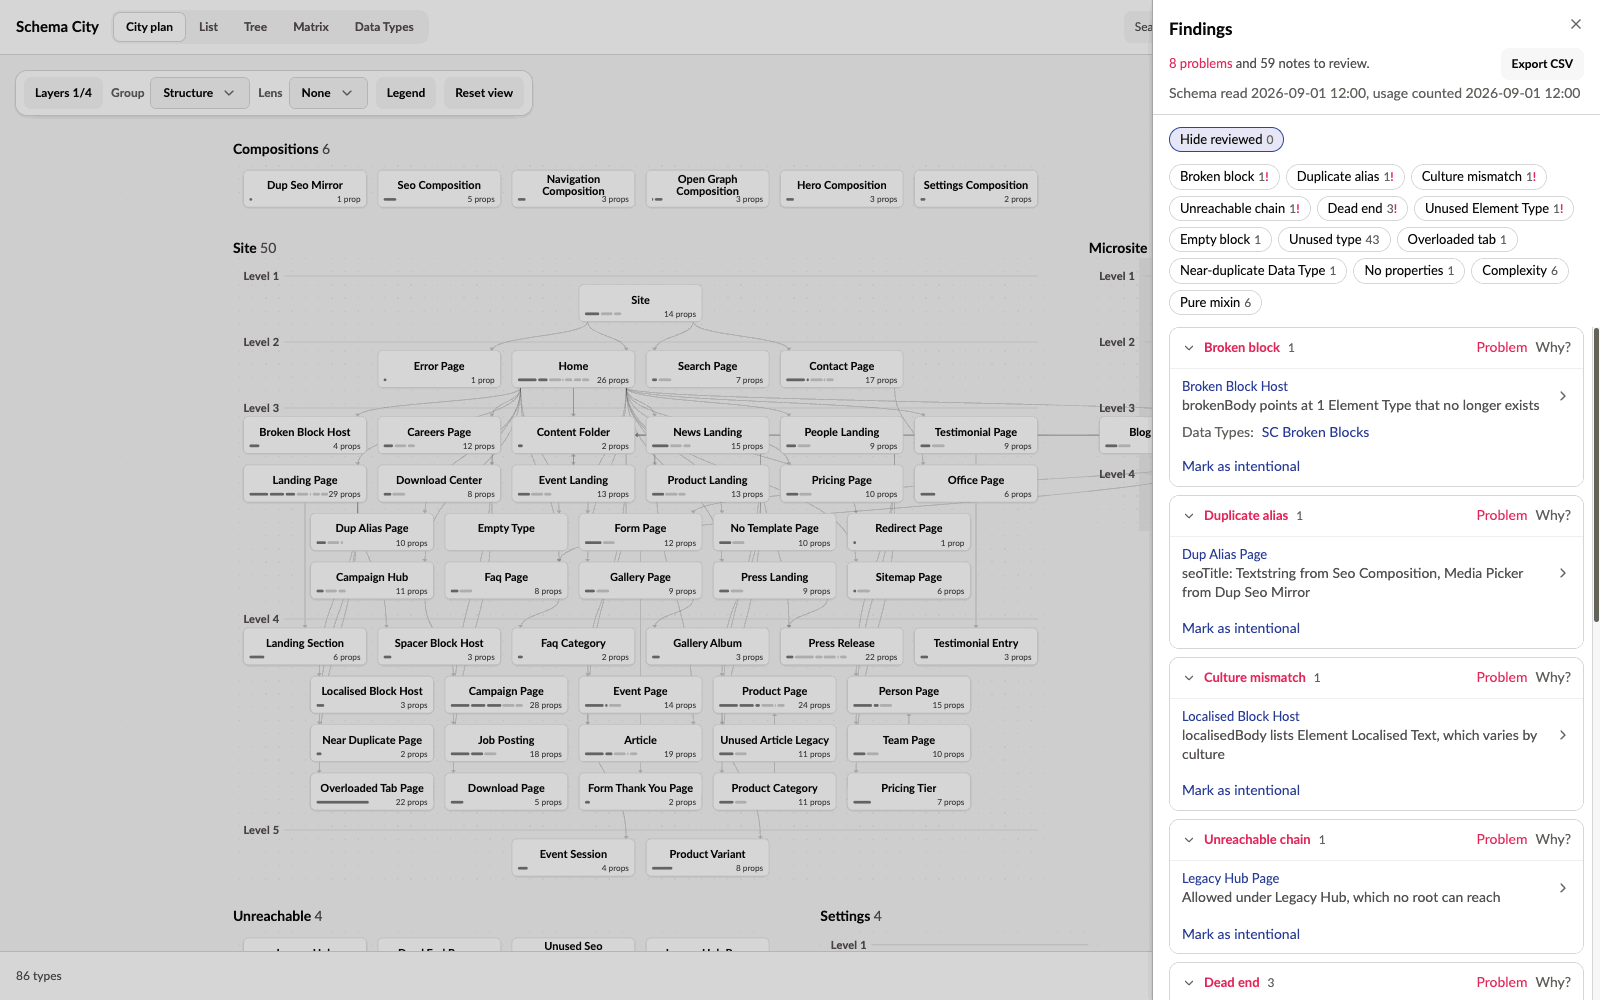
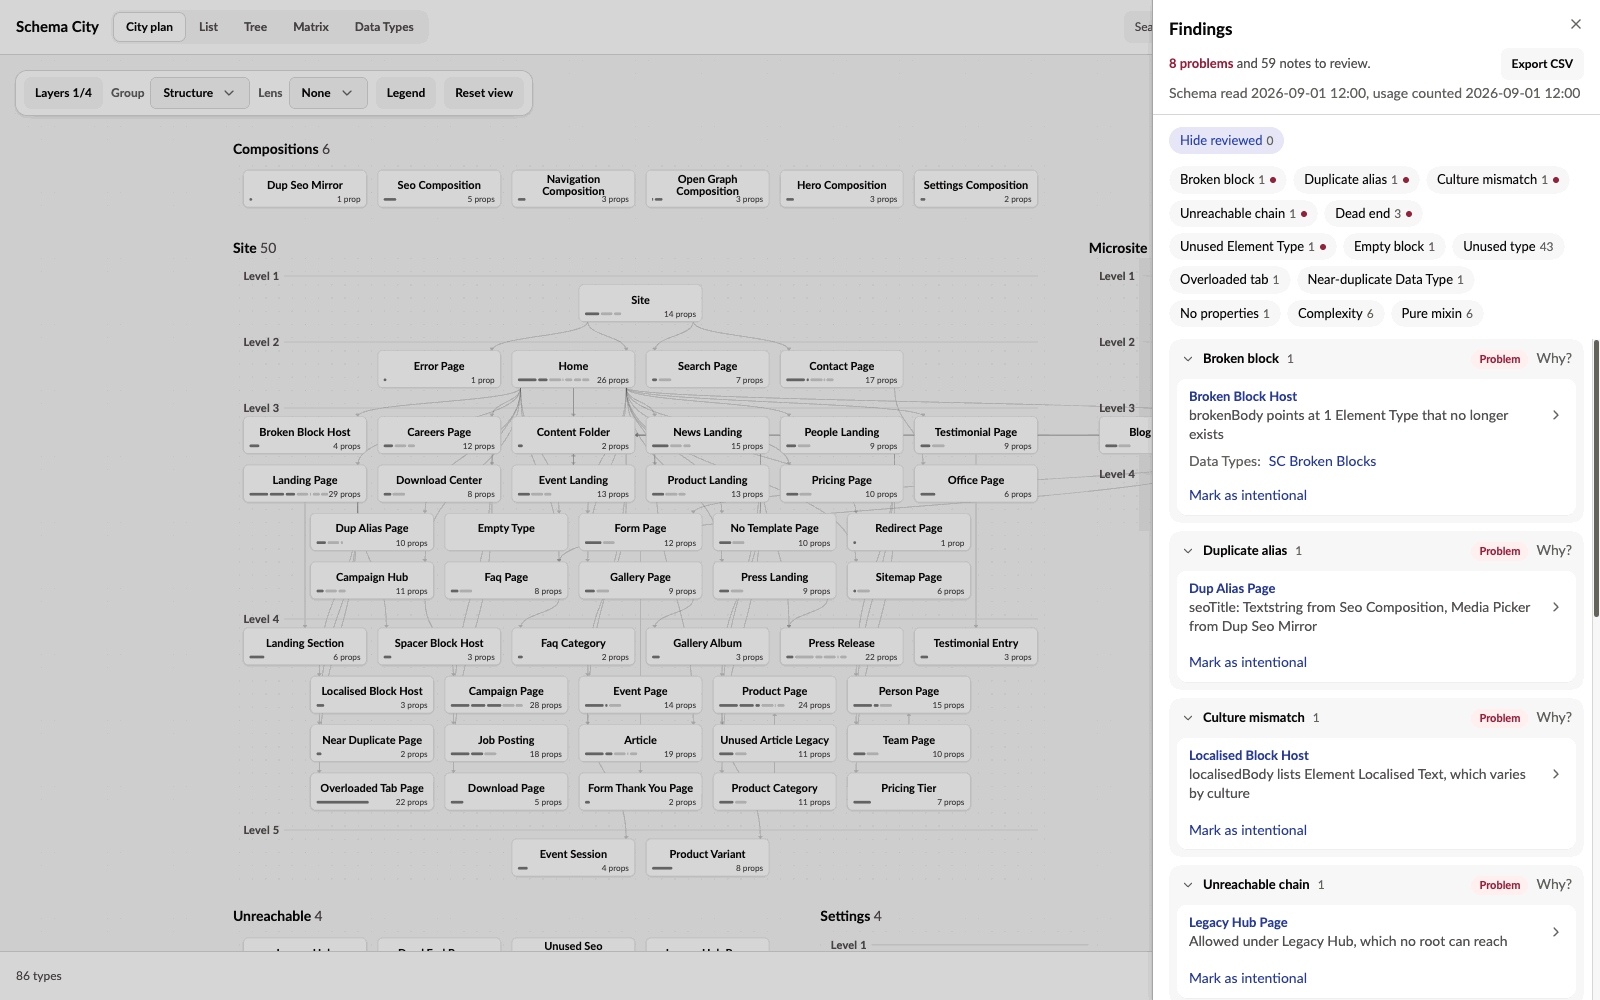
Calm the Findings drawer and give it structure
The pink went on every problem heading, its severity word, each kind's
count and the problem total, so the drawer shouted. Problem text now takes
a deeper ink of the danger colour, used once per group as a small Problem
pill; notes get a grey one. Kind titles are in the text colour.

Each kind is a soft surface holding its findings as one white list, and the
type a finding is about anchors its row. Filter chips are soft keys like the
rest, and a kind with problems shows a small dot beside its count rather
than a red "!".

Screenshots retaken.

diff --git a/src/SchemaCity/Client/clean/src/styles.css b/src/SchemaCity/Client/clean/src/styles.css
@@ -92,6 +92,9 @@
   --violet: color-mix(in oklab, #8d6be0 75%, var(--text-mix));
   --signal: var(--uui-color-danger, #df2a5d);
   --signal-soft: color-mix(in oklab, var(--signal) 80%, var(--panel));
+  /* Problem text: the danger colour pulled toward the text colour, deeper and
+     quieter than the raw pink, which shouted from every heading it coloured. */
+  --signal-ink: color-mix(in oklab, var(--signal) 68%, var(--text-mix));
   /* The one colour for things to click: Umbraco's interactive blue, with a little of
      the text colour so it holds its contrast on a dark surface too. Half and half
      made it near-black on white, and links read as text. */
@@ -867,24 +870,84 @@ button:is([data-variant="outline"], [data-variant="default"]):is(
 }
 
 [data-ui="filter"] {
-  padding: 0.1875rem 0.625rem;
+  padding: 0.25rem 0.625rem;
   font-size: 0.8125rem;
-  background: var(--panel);
-  border: 1px solid var(--line);
+  font-weight: 500;
+  background: var(--panel-sunken);
+  border: 1px solid transparent;
   border-radius: 999px;
 }
 
-[data-ui="filter"][aria-pressed="true"] {
+[data-ui="filter"]:hover {
   color: var(--foreground);
-  background: var(--accent);
-  border-color: var(--accent-foreground);
+  background: color-mix(in oklab, var(--foreground) 8%, var(--panel-sunken));
+  border-color: transparent;
 }
 
+[data-ui="filter"][aria-pressed="true"] {
+  color: var(--accent-foreground);
+  background: var(--accent);
+  border-color: transparent;
+}
+
+/* A problem among a kind's counts is a small dot, not a red "!". */
+[data-ui="problem-mark"] {
+  display: inline-block;
+  width: 0.375rem;
+  height: 0.375rem;
+  margin-left: 0.3125rem;
+  font-size: 0;
+  vertical-align: middle;
+  background: var(--signal-ink);
+  border-radius: 50%;
+  translate: 0 -0.0625rem;
+}
+
+[data-ui="problem-count"] {
+  font-weight: 600;
+  color: var(--signal-ink);
+}
+
+/* Each kind is a soft surface: its title in the text colour, its severity as a
+   small pill, and its findings as one white list inside it. A problem's pill is
+   the only red in the group. */
 [data-ui="finding-group"] {
   overflow: hidden;
+  background: var(--panel-sunken);
+  border: 0;
+  border-radius: 12px;
+}
+
+[data-ui="finding-title"] {
+  font-weight: 700;
+  color: var(--foreground);
+}
+
+[data-ui="severity"] {
+  padding: 0.125rem 0.5rem;
+  font-size: 0.6875rem;
+  font-weight: 600;
+  color: var(--label);
+  background: color-mix(in oklab, var(--foreground) 7%, var(--panel-sunken));
+  border-radius: 999px;
+}
+
+[data-ui="finding-group"][data-severity="problem"] [data-ui="severity"] {
+  color: var(--signal-ink);
+  background: color-mix(in oklab, var(--signal) 12%, var(--panel));
+}
+
+/* The type a finding is about anchors its row. */
+[data-ui="finding-row"] > button .text-phosphor {
+  font-weight: 600;
+}
+
+[data-ui="finding-rows"] {
+  margin: 0 0.5rem 0.5rem;
   background: var(--panel);
-  border-color: var(--line);
-  border-radius: calc(var(--radius) + 4px);
+  border: 0;
+  border-radius: 10px;
+  box-shadow: 0 1px 2px rgb(0 0 0 / 0.05);
 }
 
 /* Checks as rows marked by a dot: filled pink for a problem, grey for a note, a

diff --git a/src/SchemaCity/Client/ui/src/Findings.tsx b/src/SchemaCity/Client/ui/src/Findings.tsx
@@ -104,7 +104,10 @@ function Row({
 }) {
   const { nodeId, dataTypeIds = [] } = finding;
   return (
-    <div className="border-line/40 border-t first:border-t-0">
+    <div
+      className="border-line/40 border-t first:border-t-0"
+      data-ui="finding-row"
+    >
       <button
         className="group flex w-full items-center gap-2 px-3 py-2 text-left hover:bg-accent/50"
         onClick={() =>
@@ -204,6 +207,7 @@ function Group({
   return (
     <section
       className={`border bg-muted ${tone.border}`}
+      data-severity={rows[0]?.severity ?? "note"}
       data-ui="finding-group"
     >
       <div className="flex items-baseline gap-2 px-3 py-2.5">
@@ -219,11 +223,16 @@ function Group({
             aria-hidden
             className={`size-3.5 shrink-0 self-center text-faint transition-transform motion-reduce:transition-none ${expanded ? "rotate-90" : ""}`}
           />
-          <span className={`font-semibold ${tone.text}`}>
+          <span
+            className={`font-semibold ${tone.text}`}
+            data-ui="finding-title"
+          >
             {FINDING_LABEL[kind]}
           </span>
           <span className="font-mono text-2xs text-faint">{rows.length}</span>
-          <span className={`ml-auto text-xs ${tone.text}`}>{tone.word}</span>
+          <span className={`ml-auto text-xs ${tone.text}`} data-ui="severity">
+            {tone.word}
+          </span>
         </button>
         <button
           aria-controls={whyId}
@@ -237,7 +246,11 @@ function Group({
       </div>
       {why ? <KindWhy id={whyId} kind={kind} /> : null}
       {expanded ? (
-        <div className="border-line/40 border-t bg-panel" id={rowsId}>
+        <div
+          className="border-line/40 border-t bg-panel"
+          data-ui="finding-rows"
+          id={rowsId}
+        >
           {rows.map((finding) => (
             <Row
               finding={finding}
@@ -326,7 +339,9 @@ function Header({
       <div className="mt-1.5 flex items-center justify-between gap-2">
         <p className="text-label">
           {problems > 0 ? (
-            <span className="text-signal">{plural(problems, "problem")}</span>
+            <span className="text-signal" data-ui="problem-count">
+              {plural(problems, "problem")}
+            </span>
           ) : (
             "No problems."
           )}

diff --git a/src/SchemaCity/Client/ui/src/InspectorChips.tsx b/src/SchemaCity/Client/ui/src/InspectorChips.tsx
@@ -299,7 +299,12 @@ export function SpokenCount({
         >
           {count.toLocaleString()}
           {problem ? (
-            <span className={`font-bold ${tone ?? "text-signal"}`}>!</span>
+            <span
+              className={`font-bold ${tone ?? "text-signal"}`}
+              data-ui="problem-mark"
+            >
+              !
+            </span>
           ) : null}
         </span>
       )}
